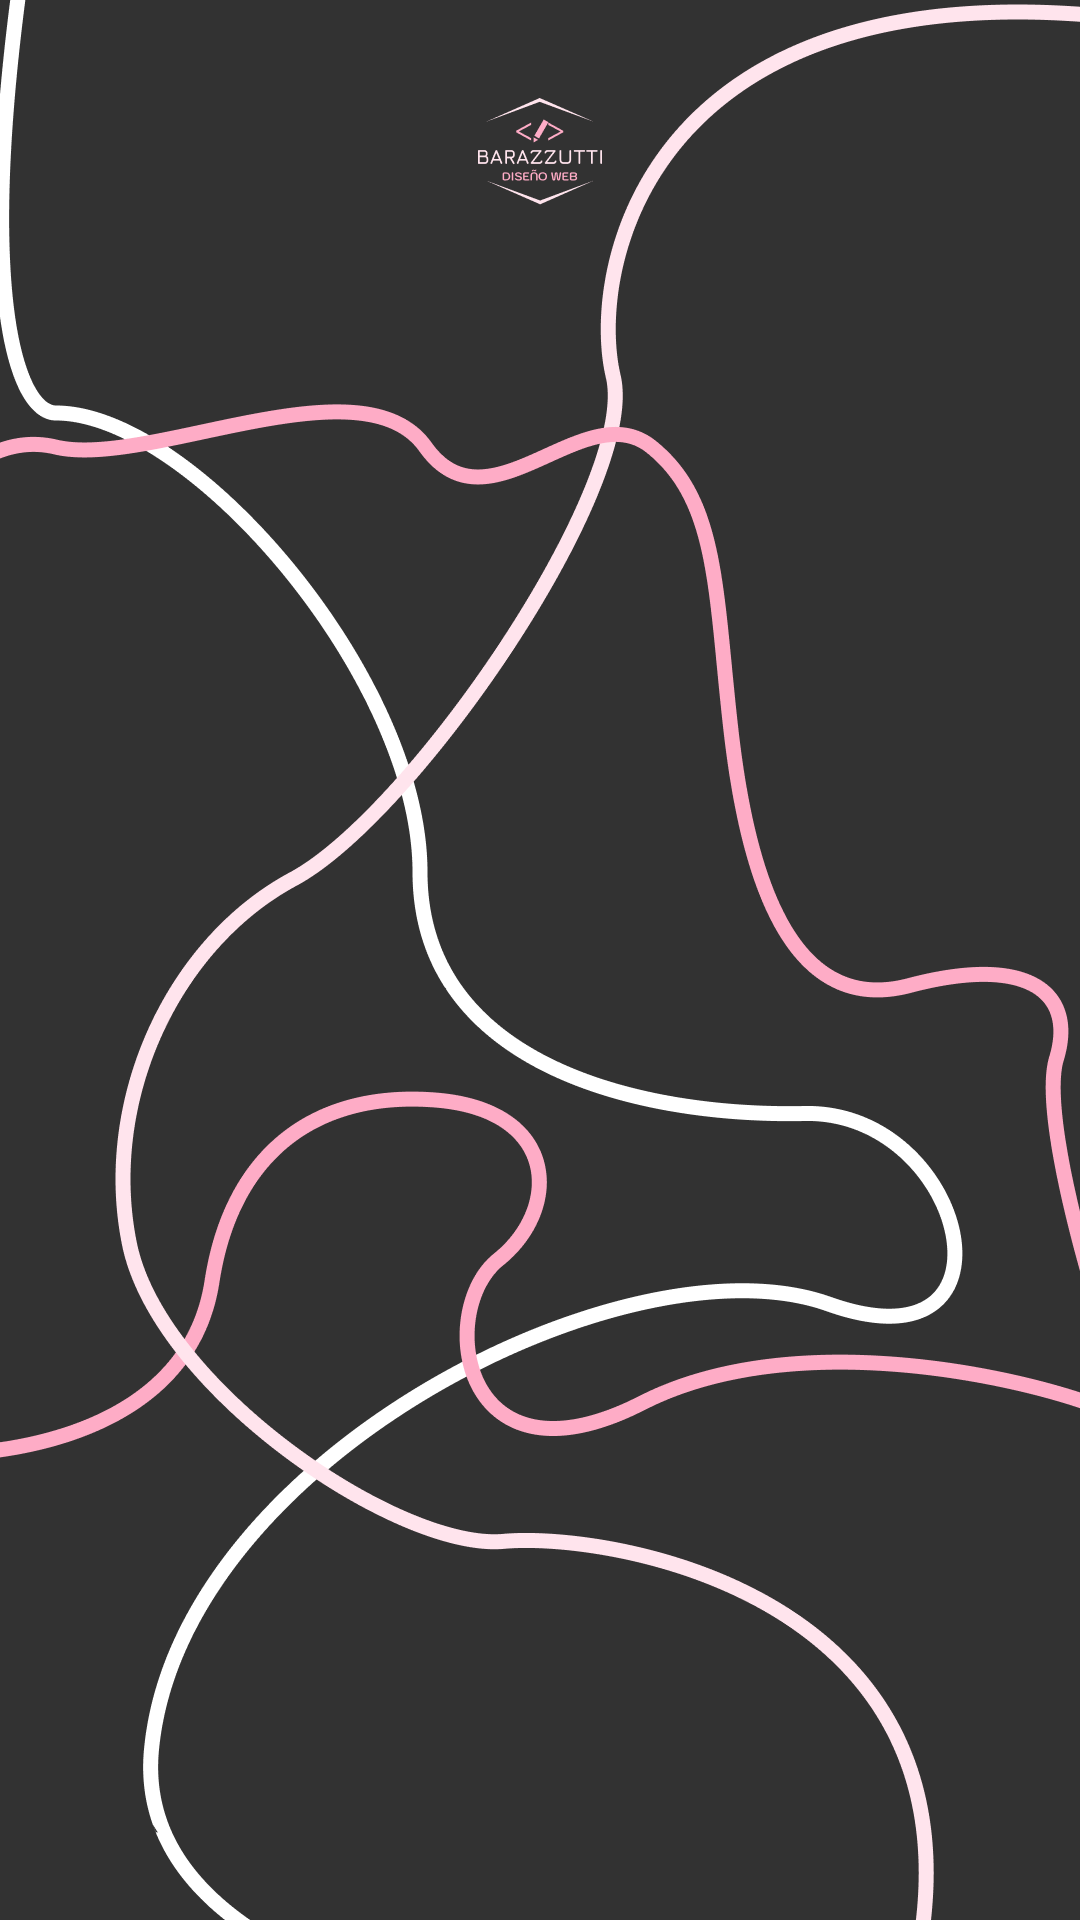
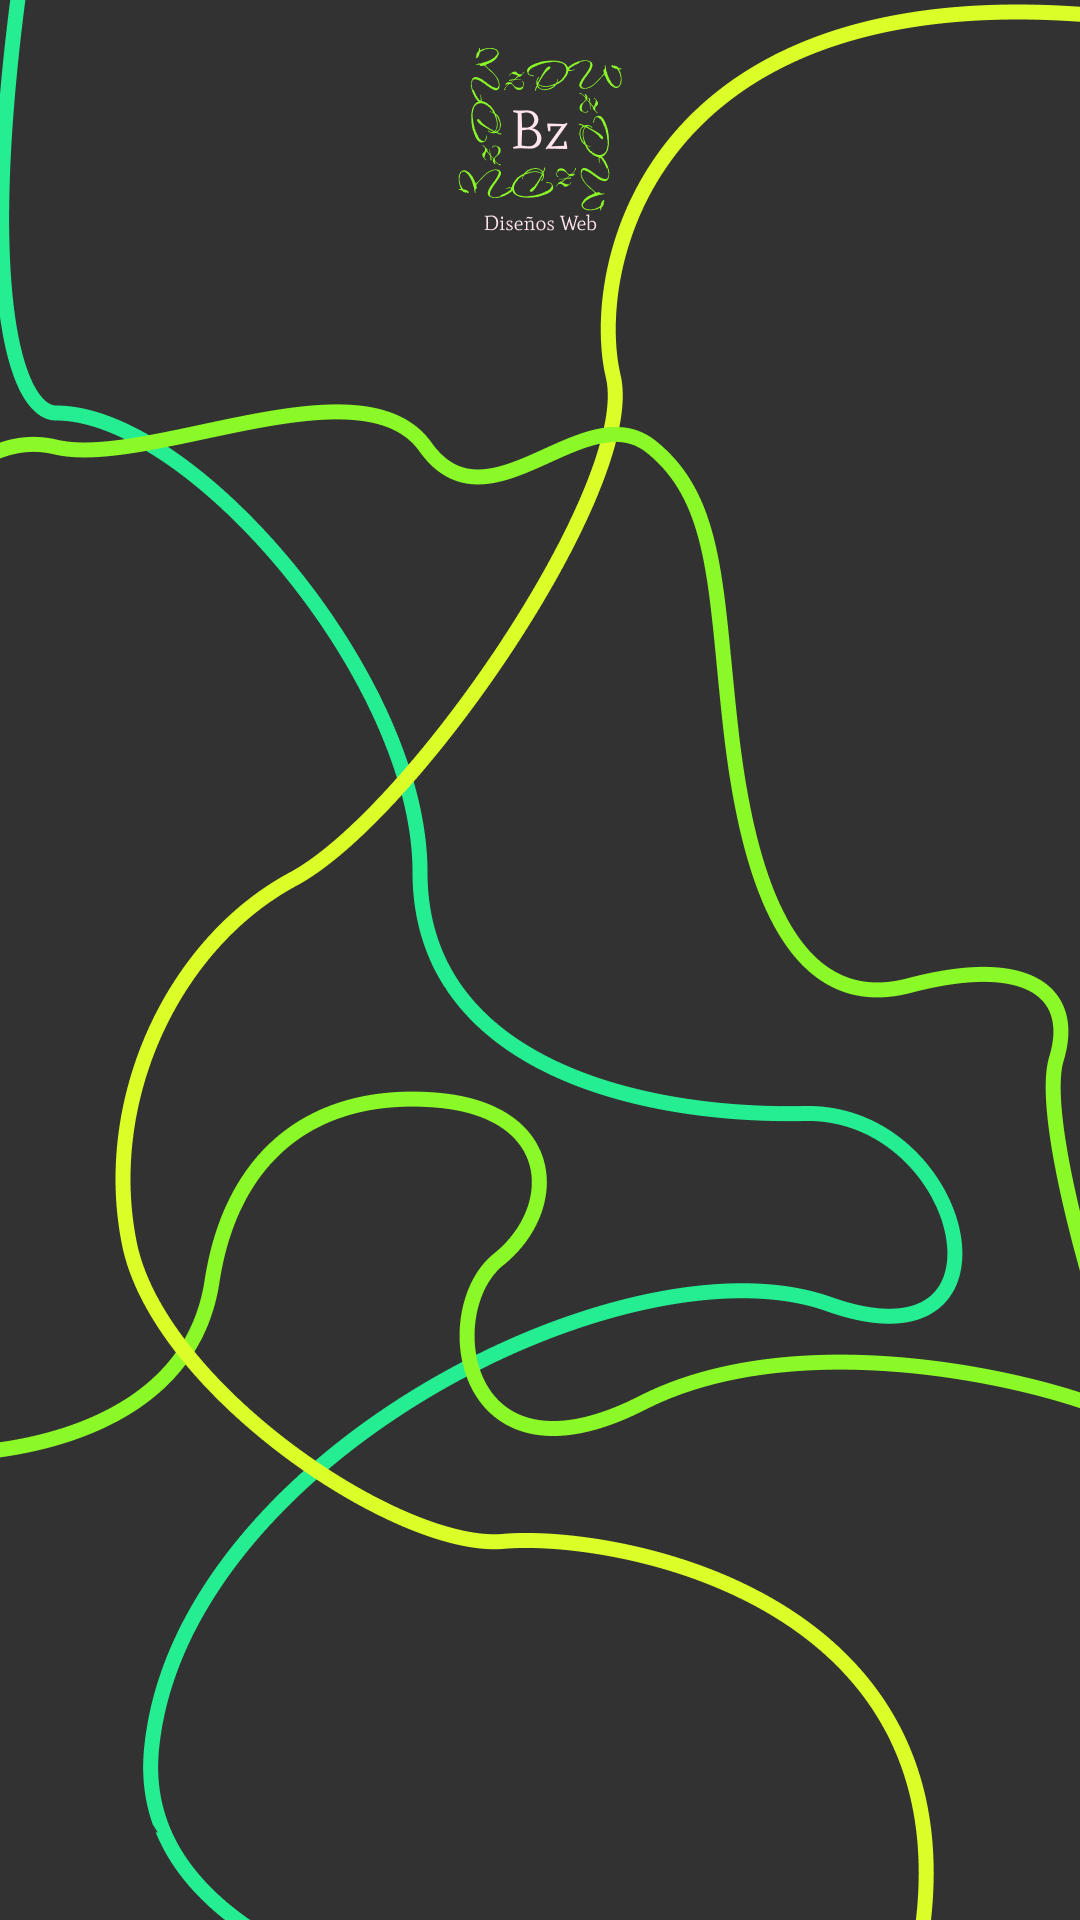
color actualizado

diff --git a/scss/layouts/_body.scss b/scss/layouts/_body.scss
@@ -21,7 +21,7 @@ body {
             align-items: start;
             justify-content: space-between;
             .titulo {
-                color: #FEACC6;
+                color: #8AF927;
                 font-family: 'titlef';
                 font-size: 48px;
                 margin-top: 30px;
@@ -72,11 +72,11 @@ body {
     margin-top: 30px;
     margin-left: 30px;
     background-color: rgba($color: #323232, $alpha: 0.8);
-    border: 2px solid #FEACC6;
+    border: 2px solid #8AF927;
     /*estilo textos planos*/
 }
 .subt {
-    color: #FEACC6;
+    color: #8AF927;
     background-color: rgba($color: #323232, $alpha: 0.6);
     padding: 10px;
     display: flex;
@@ -93,7 +93,7 @@ body {
 .carousel-pos {
     display: flex;
     width: 70%;
-    border: 4px solid #FEACc6;
+    border: 4px solid #8AF927;
     border-radius: 15px;
     box-shadow: 
     5px 5px 2px #000000;
@@ -108,11 +108,12 @@ body {
     transition: transform 0.7s ease, box-shadow 1s ease;
     a, h5 {
         text-decoration: underline;
-        color: #FEACC6;
+        color: #8AF927;
     }
     &:hover {
         transform: scale(1.05,1.05);
         box-shadow: 
-        6px 6px 1px #000000;
+        1px 0px 6px #8AF927,
+        0px 1px 6px #8AF927;
     }
 }

diff --git a/css/style.css b/css/style.css
@@ -43,7 +43,7 @@ body {
   justify-content: space-between;
 }
 .grid-main .grid-div1 .texto-inicial .titulo {
-  color: #FEACC6;
+  color: #8AF927;
   font-family: "titlef";
   font-size: 48px;
   margin-top: 30px;
@@ -85,7 +85,7 @@ body {
   margin-top: 30px;
   margin-left: 30px;
   background-color: rgba(50, 50, 50, 0.8);
-  border: 2px solid #FEACC6;
+  border: 2px solid #8AF927;
   /*estilo textos planos*/
 }
 .txt li {
@@ -93,7 +93,7 @@ body {
 }
 
 .subt {
-  color: #FEACC6;
+  color: #8AF927;
   background-color: rgba(50, 50, 50, 0.6);
   padding: 10px;
   display: flex;
@@ -110,7 +110,7 @@ body {
 .carousel-pos {
   display: flex;
   width: 70%;
-  border: 4px solid #FEACc6;
+  border: 4px solid #8AF927;
   border-radius: 15px;
   box-shadow: 5px 5px 2px #000000;
 }
@@ -126,11 +126,11 @@ body {
 }
 .carousel-caption a, .carousel-caption h5 {
   text-decoration: underline;
-  color: #FEACC6;
+  color: #8AF927;
 }
 .carousel-caption:hover {
   transform: scale(1.05, 1.05);
-  box-shadow: 6px 6px 1px #000000;
+  box-shadow: 1px 0px 6px #8AF927, 0px 1px 6px #8AF927;
 }
 
 .cards {
